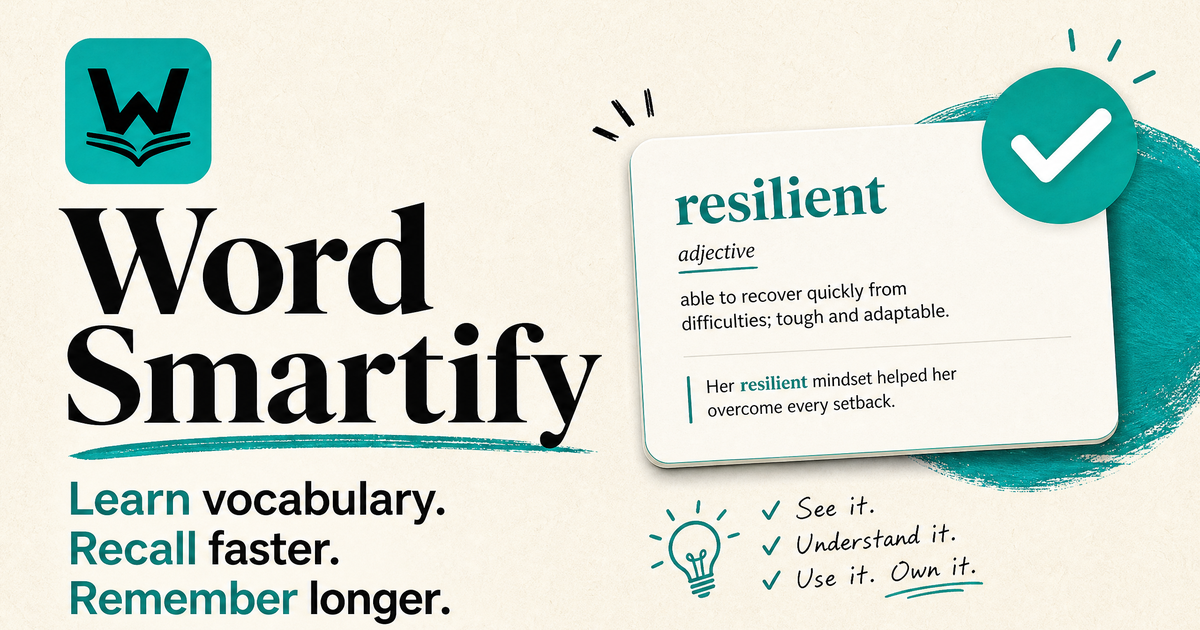
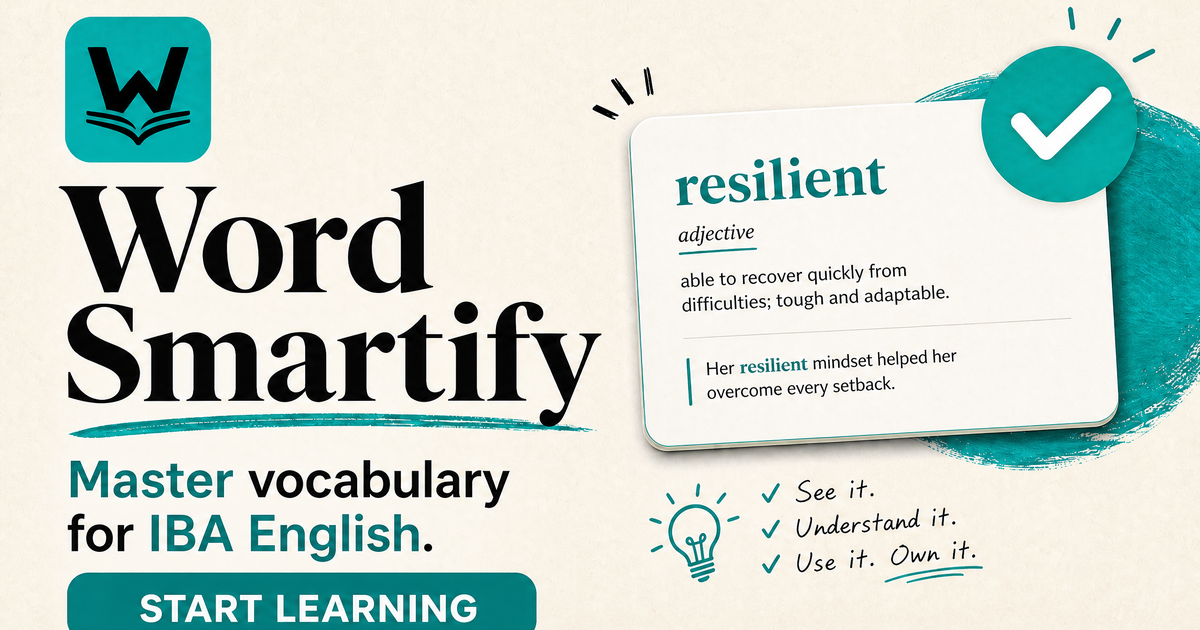
Fix social preview metadata and OG image

diff --git a/app/layout.tsx b/app/layout.tsx
@@ -30,8 +30,9 @@ const notoSansBengali = Noto_Sans_Bengali({
 })
 
 const siteUrl = process.env.NEXT_PUBLIC_SITE_URL || 'https://word-smartify.vercel.app'
+const socialImageUrl = new URL('/og-image.jpg', siteUrl).toString()
 const siteDescription =
-  'Word Smartify is a focused vocabulary trainer for Word Smart I and II, IBA English preparation, and long-term vocabulary recall through short lessons, mnemonics, quizzes, spaced review, and mock tests.'
+  'Master Word Smart and IBA English vocabulary with mnemonics, quizzes, spaced review, and mock tests.'
 
 export const metadata: Metadata = {
   metadataBase: new URL(siteUrl),
@@ -71,10 +72,12 @@ export const metadata: Metadata = {
     locale: 'en_US',
     images: [
       {
-        url: '/og-image.png',
+        url: socialImageUrl,
+        secureUrl: socialImageUrl,
+        type: 'image/jpeg',
         width: 1200,
         height: 630,
-        alt: 'Word Smartify vocabulary learning app with a vocabulary flashcard',
+        alt: 'Word Smartify vocabulary learning app with a Start Learning call to action',
       },
     ],
   },
@@ -82,7 +85,7 @@ export const metadata: Metadata = {
     card: 'summary_large_image',
     title: 'Word Smartify | Vocabulary Learning for IBA English',
     description: siteDescription,
-    images: ['/og-image.png'],
+    images: [socialImageUrl],
   },
   robots: {
     index: true,

diff --git a/app/page.tsx b/app/page.tsx
@@ -47,8 +47,8 @@ const structuredData = {
       applicationCategory: 'EducationalApplication',
       operatingSystem: 'Web, Android, iOS',
       url: 'https://word-smartify.vercel.app',
-      image: 'https://word-smartify.vercel.app/og-image.png',
-      description: 'Vocabulary learning for Word Smart I and II, IBA English preparation, and long-term English word recall.',
+      image: 'https://word-smartify.vercel.app/og-image.jpg',
+      description: 'Master Word Smart and IBA English vocabulary with mnemonics, quizzes, spaced review, and mock tests.',
       educationalUse: ['Vocabulary building', 'Exam preparation', 'Active recall'],
       learningResourceType: 'Interactive vocabulary lessons and quizzes',
       isAccessibleForFree: true,
@@ -57,7 +57,7 @@ const structuredData = {
       '@type': 'WebSite',
       name: 'Word Smartify',
       url: 'https://word-smartify.vercel.app',
-      description: 'A focused vocabulary trainer for Word Smart and IBA English vocabulary practice.',
+      description: 'Word Smart and IBA English vocabulary practice with short lessons, quizzes, and recall tools.',
     },
     {
       '@type': 'FAQPage',
